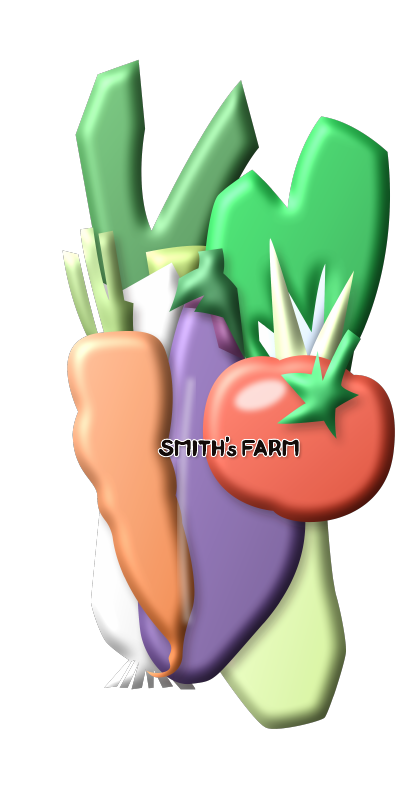
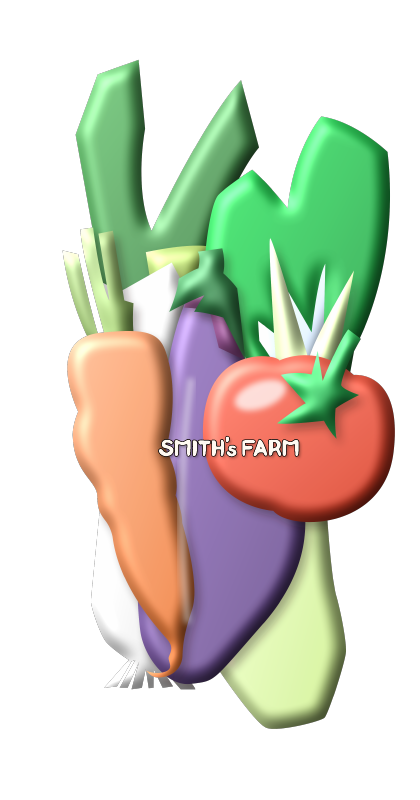
Bill holder: wordmark coloured like the A sheet (light letters, dark rim)
Claude-Session: https://claude.ai/code/session_01VQ8MMq98AyuhceDc8oF9Qd

Changed region(s): [[0.3714, 0.5312, 0.7119, 0.5938]]

diff --git a/goods/billholder/source/wordmark.py b/goods/billholder/source/wordmark.py
@@ -23,6 +23,7 @@ defs, body, _ = make3.v3d()
 vb = f'{make3.X0} {make3.Y0} {make3.X1-make3.X0} {make3.Y1-make3.Y0}'
 head = f'<svg xmlns="http://www.w3.org/2000/svg" xmlns:xlink="http://www.w3.org/1999/xlink" viewBox="{vb}" width="250" height="494"><defs>{make3.defs_common()}{defs}</defs>{body}'
 shadow = f'<g clip-path="url(#U)"><g fill="#000" opacity=".35" filter="url(#soft2)" transform="translate(1.2 1.6)">{w("")}</g></g>'
-letters = w('fill="#fff" stroke="#fff" stroke-width="1.6" stroke-linejoin="round"') + w('fill="#140c0a"')
+# looks like the A sheet: light letters with a thin dark rim
+letters = w('fill="#140c0a" stroke="#140c0a" stroke-width="1.1" stroke-linejoin="round"') + w('fill="#fffaf2"')
 open('art_3d_word_img.svg', 'w').write(head + shadow + '</svg>')
 open('art_3d_word.svg', 'w').write(head + shadow + letters + '</svg>')

diff --git a/goods/billholder/source/mkai_3d_word.py b/goods/billholder/source/mkai_3d_word.py
@@ -27,8 +27,8 @@ content = (
  '/OC /L1 BDC\n'
  f'q {AW} 0 0 {AH} {X0} {PH-Y0-AH:.3f} cm /Art Do Q\nEMC\n'
  '/OC /L2 BDC\n'
- f'q {FLIP}\nq {WS} 0 0 {WS} {WTX} {WTY} cm\n1 1 1 RG {1.6/float(WS):.4f} w 1 j 1 1 1 rg\n{text_paths}\nB*\n'
- f'0.0784 0.0471 0.0392 rg\n{text_paths}\nf*\nQ\nQ\nEMC\n'
+ f'q {FLIP}\nq {WS} 0 0 {WS} {WTX} {WTY} cm\n0.0784 0.0471 0.0392 RG {1.1/float(WS):.4f} w 1 j 0.0784 0.0471 0.0392 rg\n{text_paths}\nB*\n'
+ f'1 0.98 0.949 rg\n{text_paths}\nf*\nQ\nQ\nEMC\n'
  '/OC /L3 BDC\n'
  f'q {FLIP}\nq {cut_m} cm\n0.0196 0.0039 0.0078 RG 1 w 0 J 0 j\n{ops(d("p0"))}\nS\nQ\n'
  '0.1373 0.098 0.0863 rg\n' + '\n'.join(ops(d(k)) for k in CAP) + '\nf\nQ\nEMC\n')
